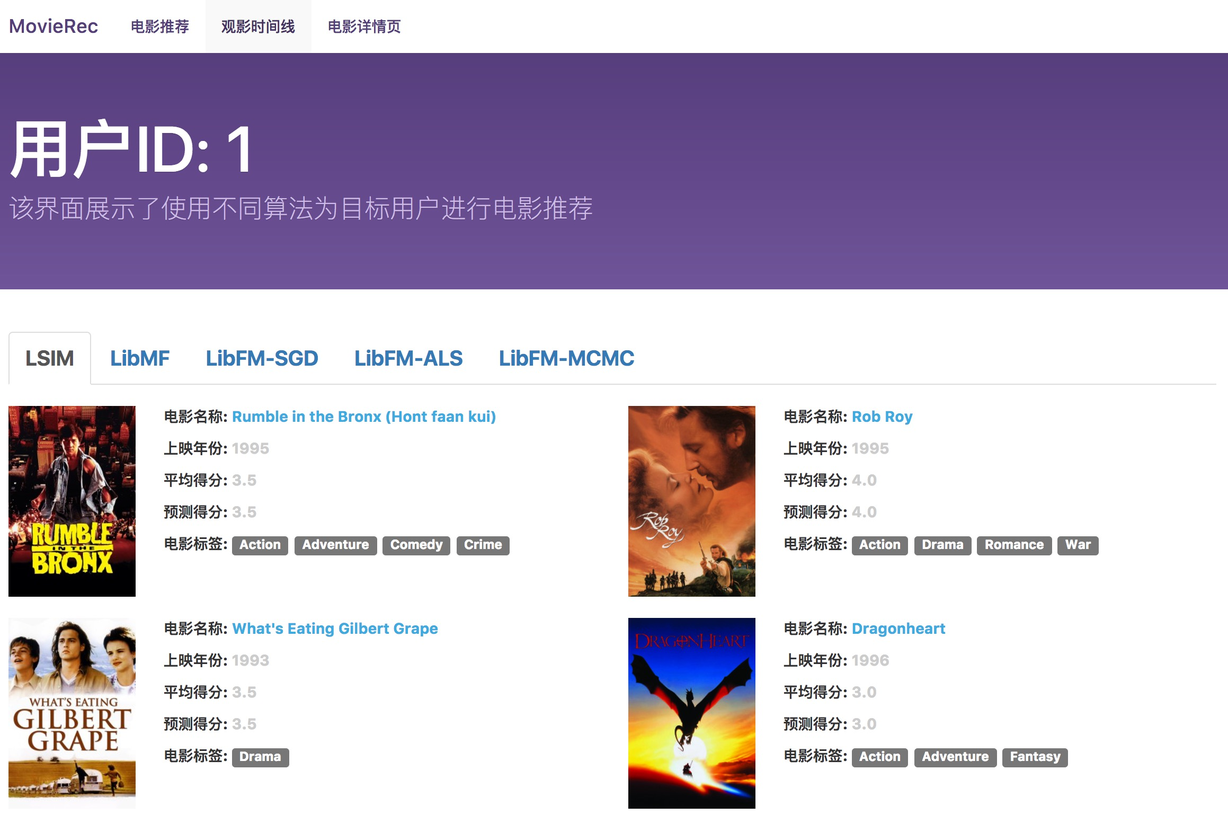
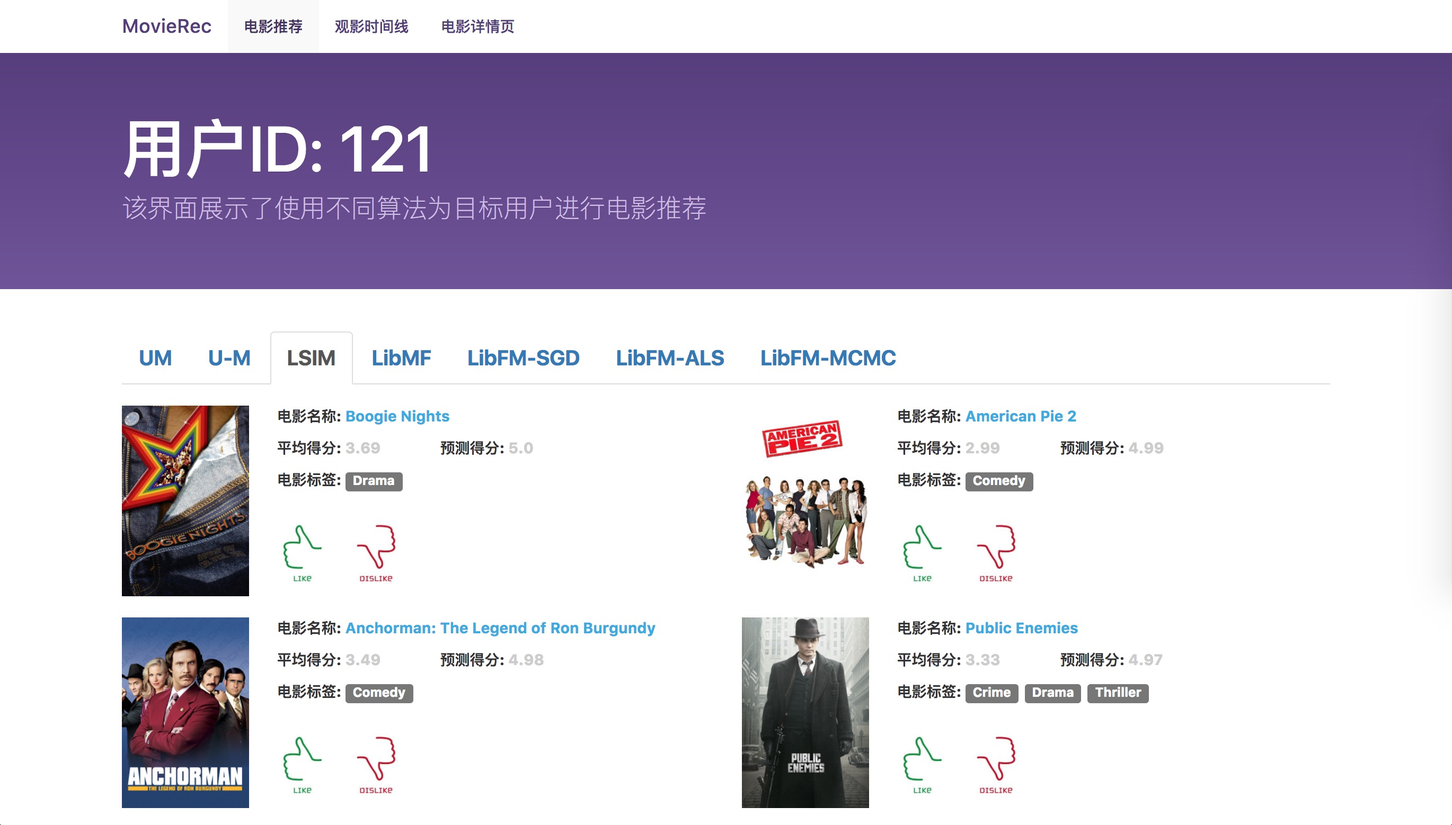
add chap5 and chap6

diff --git a/chap/abstract.tex b/chap/abstract.tex
@@ -3,18 +3,7 @@
 电商平台里的商品、媒体网站里的新闻、小说网站里的作品、招聘网站里的职位等，
 当数量超过用户可以遍历的上限时，用户就无所适从了。
 推荐系统可以对海量信息进行筛选、过滤，将用户最关注最感兴趣的信息展现在用户面前，能大大增加这些内容的转化率，
-对各类应用系统都有非常巨大的价值，逐渐成为互联网平台不可或缺的一环。
-例如，著名的电商网站亚马逊公司拥有``推荐系统之王''的称号，大概有35\%的销售额是与推荐系统相关的；
-又例如国内的阿里巴巴公司，在推荐系统上也有重金投入，举办过类似``天猫推荐算法大赛''、``阿里移动推荐算法''
-等多项推荐系统学术竞赛。
-
-协同过滤作为推荐系统中应用最广泛的算法之一，可以对用户兴趣分布进行分析，从大量用户群体中找到相似兴趣的用户邻居，
-综合这些相似兴趣用户的兴趣偏好，形成推荐系统对目标用户的喜好程度预测。
-传统的协同过滤算法的基本假设是被同一用户偏爱的物品具有相似的兴趣分布，或者喜欢相同物品的用户拥有相似的兴趣分布。
-但在真实的场景中，该假设并都是成立的，因为人的兴趣分布会随着时间的流逝发生变化。
-为了描述这种兴趣漂移的现象，本文定义了用户的长期兴趣分布和短期兴趣分布
-来刻画用户在不同时间区间的兴趣状态。与此同时本文在传统协同过滤假设的基础上
-又提出了两个改进版本的假设，用以刻画物品在用户的交互时间线上的兴趣分布变化。
+对各类应用系统都有非常巨大的价值，逐渐成为互联网平台中不可或缺的一环。
 
 大数据时代的来临积累了大量的用户数据，同时计算机硬件性能的大幅度提升，这些改变带了深度学习的风靡兴起。
 深度学习作为一种机器学习范式，利用定制的神经网络结构对学习任务进行建模，
@@ -22,13 +11,24 @@
 深度学习在语音识别、图像识别等诸多研究领域上取得了突破性的进展，
 将人工智能引上了一个新的台阶，不仅学术意义重大，而且工业实用性很强，催化了大量智能产品的诞生。
 
-自然语言处理领域中引用深度学习，利用浅层神经网络结构学习出更好的词向量表示，在文本分类、
-机器翻译等评测任务上取得巨大的进展。受到句向量表示算法的启发，本文提出了长短期兴趣模型来刻画两个改进版本的假设。
-长短期兴趣模型引入了一个神经网络结构来提取用户交互时间线上的序列信息，
-从而训练处更好的用户表示和物品表示，然后再利用基于特征的协同过滤框架进行融合，
-解决推荐系统中的电影评分预测任务。本文在两类真实世界数据集上进行了多组实验，
-大量实验结果表明了长短期兴趣模型在预测准确率上都超过传统协同过滤算法，同时和目前最优模型的结果差距很小，
-证明了长短期兴趣模型的算法有效性。
+鉴于深度学习在诸多研究领域的成功应用和突破性进展，近些年来，如何将深度学习成功应用于推荐系统领域中成为了研究者们的热门话题。
+在本文中，我们提出了两种神经网络模型尝试使用深度学习来解决推荐系统中的电影评分预测任务。
+首先，我们将电影评分预测任务看成一个回归问题，基于神经网络中传统的多层感知器提出了UM模型和U-M模型，
+利用嵌入技术将用户和电影压缩至低维的向量表示，并且输入到多层感知器中的输入层中，通过隐藏层的学习和映射，在输出层输出预测评分数据。
+另外本文还使用了Dropout技术，在训练过程中随机舍去某些神经节点，提高了整体算法的鲁棒性。
+UM模型和U-M模型是使用深度学习对求解推荐问题进行的初步探索，取得了和经典推荐算法相近的实验效果，证明了深度学习在推荐系统中应用的可行性。
+
+其次，我们考虑到用户兴趣随时间流逝发生漂移的特点，提出了长短期兴趣模型，将用户的兴趣分成长期兴趣和短期兴趣两种，
+并且认为位于相同短期兴趣中的电影之间具有更高的相似度。利用所有观看过的电影生成对应的用户表示长期兴趣，
+利用用户和同一个时间窗口内的邻居电影生成对应的电影表示短期兴趣，得到带有时序特征的用户表示和电影表示。
+最后使用基于特征的矩阵分解算法融合用户嵌入表示和电影嵌入表示，生成所有的待预测评分。
+在两类真实世界数据集上进行的大量实验表明了长短期兴趣模型在预测准确率上都超过传统协同过滤算法，
+同时和目前最优模型的结果差距很小，证明了长短期兴趣模型的算法有效性。
+
+除了理论实验部分，本文还实现了一个电影推荐原型系统MovieRec。MovieRec从多个来源（如MovieLens，IMDb，TMDb等网站）获取电影的详细属性，
+更好地帮助用户全方面了解一部电影的各个方面。同时还根据用户的历史评分数据，实现了诸多经典的推荐算法以及本文提出的三个模型，
+用户可以根据自己的爱好进行切换和选择。最后对于推荐结果，MovieRec还提供了显示的反馈接口，用户可以通过点赞或者差评的方式告诉系统推荐结果的好坏，
+系统会根据用户的反馈进行推荐结果的动态调整。
 \end{cabstract}
 
 \begin{eabstract}
@@ -41,29 +41,6 @@ find the most concerned and interesting information to displayed in front of the
 and greatly increase the conversion rate of these content.
 Recommender system is valuable for vast types of applications,
 and gradually becomes an indispensable part of most Internet platform.
-For example, the famous e-commerce site Amazon has the title of ``Recommender System King'',
-about 35\% of sales are related to its recommender system;
-Another example is the domestic Alibaba company,
-it has invested lots of money in recommender system field,
-and held a number of recommender system academic competition,
-such as ``TMall Recommended Algorithm Contest '' and ``Ali Mobile Recommendation Algorithm''.
-
-As one of the most widely used algorithms in the recommender system,
-collaborative filtering can analyze the user interest distribution,
-find similar users from a large number of user groups,
-form the preference prediction of target users for recommender system,
-via synthesizing these similar users' interest preferences.
-The basic assumption of a conventional collaborative filtering algorithm is
-that the items favored by the same user have a similar distribution of interest,
-or that users who prefer the same item have similar interest distributions.
-However in the real scene, the assumption are not always true,
-because the distribution of people's interests will change over time.
-In order to describe this phenomenon of interest drift,
-this paper defines the user's long-term interest distribution and short-term interest distribution
-to describe the user's interest status in different time interval.
-At the same time, this paper proposes two improved version of the hypothesis
-based on the traditional cooperative filtering hypothesis,
-to describe the items in the user's interactive time on the distribution of interest changes.
 
 Big data era has accumulated a lot of user data, while the computer hardware performance has
 won a huge upgrade, these changes make deep learning spring up rapidly.
@@ -75,21 +52,41 @@ and image recognition, help lead artificial intelligence to a new level.
 It not only has a significant academic significance, also shows a great practicability in
 industrial circles, a large number of intelligent products are born with its contribution.
 
-Natural language processing research field brings in deep learning,
-makes use of shallow neural network structure to learning a better word vector representation,
-shows great results in text classification, machine translation and many other tasks.
-Inspired by the sentence vector representation algorithm,
-this paper proposes a long-short interest model (LSIM) to describe the two improved versions hypothesis.
-The long-short interest model introduces a neural network structure to extract the sequence information
-on the user interaction timeline,
-so that better user representation and item representation can be trained,
-then they are integrated in the feature-based collaborative filtering framework,
-to solve the movie rating prediction task in the recommended system.
-In this paper, we have carried out several experiments on two kinds of real-world datasets,
-a large number of experimental results show that the long-short interest model reveals
+In view of the successful application and breakthrough development of deep learning in many research fields,
+it has become a hot topic for researchers to successfully apply the deep learning to the recommender system in recent years.
+In this paper, we propose two neural network models to try to use the deep learning
+to solve the movie rating prediction task in the recommender system.
+Firstly, we consider the movie rating prediction task as a regression problem.
+Based on the traditional multi-layer perceptron in neural network, we propose UM model and U-M model.
+The user and movie are compressed into a low-dimensional vector representation using the embedding technique and
+then inputted into a multi-layer perceptron, the predicted ratings are outputted after hiding layer learning.
+In addition, we also use the Dropout technology, randomly drop some neural nodes in the training process,
+to improve the robustness of the overall algorithm.
+UM model and U-M model are the initial explorations to use deep learning to solve the recommender problem,
+and the experimental results are similar to the classical recommender algorithm,
+which proves the feasibility of the application of the deep learning in the recommender system.
+
+Secondly, we take the characteristics of user interest drift over time into account,
+propose the long short interest model. The user's interest is divided into two kinds: long-term interest and short-term interest,
+and that there is a higher degree of similarity between the movies located in the same short-term interest
+Long-term interest is expressed via using all the watched movies to generate the corresponding user,
+while short-term interest is expressed via using the user and the neighbor movie
+in the same time window to generate the corresponding movie.
+The user representation and movie representation containing sequential characteristics can be obtained after generation process.
+Finally, the feature-based matrix factorization algorithm is used to merge user representation
+and movie representation to generate all the predicted ratings.
+A large number of experimental results show that the long-short interest model reveals
 a great improvement than traditional collaborative filtering algorithms in the prediction accuracy.
 Meanwhile our results have a small gap between the state-of-the-art ones,
 which shows the effectiveness of the long-short interest model.
+
+In addition to the theoretical experimental part, this paper also implements a movie recommendation prototype system MovieRec. MovieRec obtains the detailed properties of a movie from a number of sources (such as MovieLens, IMDb, TMDb and other sites),
+to better help users understand all aspects of the movie.
+At the same time, MovieRec realizes many classic recommender algorithms and the proposed three models in this paper,
+to recommend movie to users according to the users' historical ratings data.
+Finally, for the recommended results, MovieRec also provides a display of the feedback interface,
+users could tell the system whether the recommended results are good or bad,
+the system will dynamic adjust the recommend results based on users' feedbacks.
 \end{eabstract}
 
 

diff --git a/chap/chap1.tex b/chap/chap1.tex
@@ -96,29 +96,34 @@ Wang等人在\parencite{wang2015collaborative}和\parencite{wang2016collaborativ
 还可以提高物品提供商的转化效率。在当前流行的各类大型网站平台上，
 一般都提供了推荐系统的功能方便用户获取自己感兴趣的信息，比如淘宝网站上的商品推荐，或者豆瓣电台中的音乐推荐等。
 
-协同过滤利用用户的历史行为数据学习出用户的兴趣偏好，从而进行较为准确的推荐，但传统的协同过滤算法将同一个用户的交互数据等同视之，
-这样假设往往是存在问题的。例如在电商平台上的推荐系统中，采用协同过滤算法时，我们会认为一个用户购买过的商品具有类似的兴趣分布，
-但实际上随着时间的推移，用户购买的商品在不同的时间区间往往具有很大的区别。
-一位刚当上妈妈的女性用户的最近购买记录中包含大量的母婴用品，但是她的两年前的购买记录中却都是少女系列的衣物等，
-协同过滤算法认为两者相似的假设在此刻就不能成立。本文正是基于此提出了长短期兴趣模型，用以刻画用户兴趣随时间漂移的现象。
+深度学习是近年来兴起的机器学习范式，通过特定的神经网络结构，直接从原始数据向预测目标进行端到端的转换，
+省去了大量的构建特征工程的人力花销，在语音识别、图像识别等诸多研究领域上取得了突破性的进展。
 
-同时本文的工作也是深度学习在推荐系统中应用的一次尝试，和其他工作不同的是，本文在利用评分数据的同时，
-额外考虑了评分时间的辅助信息。时间信息的引入让刻画用户兴趣漂移成为了可能，深度学习的框架也保证了可以学习出较好的用户表示
-和物品表示。一方面这些较好的用户表示和物品表示可以用在评分预测任务上，另一方面，这些表示还可以帮助发现相似用户和相似电影，
+本文正是深度学习应用于推荐系统领域的一次尝试，通过多层感知器模型和长短期兴趣模型解决了电影评分预测任务，
+为推荐算法提供了一个新的解题角度。多层感知器模型是一个通用的回归框架，将原始的用户表示和电影表示直接作为输入，
+通过多层的神经网络结构一层层地抽象归纳用户和电影的关系，最终得到待预测评分数据。
+与此同时，如果真实的推荐环境中还包含各类辅助信息，也可以不进行处理直接加入到多层感知器模型中。
+
+长短期兴趣模型是对传统协同过滤算法的一种扩展。传统的协同过滤算法将同一个用户的交互数据等同视之，这样假设往往是存在问题的。
+例如在电商平台上的推荐系统中，采用协同过滤算法时，我们会认为一个用户购买过的商品具有类似的兴趣分布，但实际上随着时间的推移，
+用户购买的商品在不同的时间区间往往具有很大的区别。长短期兴趣模型正是用来刻画用户兴趣随时间漂移的现象的一种模型，
+在利用评分数据的同时，额外引入了评分时间的信息，让刻画用户兴趣漂移成为了可能，深度学习的框架也保证了可以学习出较好的用户表示和物品表示。
+一方面这些较好的用户表示和物品表示可以用在评分预测任务上，另一方面，这些表示还可以帮助发现相似用户和相似电影，
 或者异常用户和异常电影，并进行相应的好友推荐或者异常检测等等。
 
 \section{本文主要工作及成果}
-本文针对传统协同过滤算法不能有效地建模用户兴趣随时间流逝发生漂移的现象进行研究，提出了相应的可行解决方案。
+本文是深度学习在推荐系统领域应用的一种尝试，提出了多层感知器模型和长短期兴趣模型解决电影评分预测任务，
+同时实现了电影推荐原型系统MovieRec用以展示直观的推荐效果。主要包含以下几点成果：
+
 \begin{itemize}
 \item
-受到深度学习在自然语言处理领域的成功应用的启发，本文尝试将深度学习和推荐系统进行结合，
-利用深度学习能够高效学习高层抽象的特点，对用户和物品进行更加准确地建模。
+本文利用最经典的神经网络结构实现了多层感知器模型，取得了和传统推荐算法相近的实验结果，证明了深度学习应用于推荐系统领域的可行性。
 \item
 本文考虑到用户的兴趣分布会随时间流逝发生变化的特点，提出长短期兴趣模型，
 在学习过程中融入了时间因素，使得用户模型和物品模型更加具有时效性，从而进一步提升推荐系统的推荐性能。
 \item
-本文通过长短期兴趣模型学习出更好的用户表示和电影表示，这些表示不仅可以用在电影评分预测上，
-还可以用于发现相似用户和相似电影，或者异常用户和异常电影。
+本文实现了一个电影推荐原型系统MovieRec，将我们提出的多层感知器模型和长短期兴趣模型进行了应用，
+可以帮助用户快速发现其可能感兴趣的电影。
 \item
 本文提出的长短期兴趣模型已经投稿并发表在了第五届自然语言处理与中文计算会议上（NLPCC 2016）。
 \end{itemize}
@@ -126,21 +131,22 @@ Wang等人在\parencite{wang2015collaborative}和\parencite{wang2016collaborativ
 \section{本文篇章结构}
 本文一共由六个章节组成。
 
-第一章节是绪论部分，主要介绍了推荐系统和深度学习的研究背景，阐述了本文的研究意义和问题定义，
-然后介绍了我们的工作和研究成果，最后描述了本文的篇章结构。
+第一章节是绪论部分，主要介绍了推荐系统和深度学习的研究背景，阐述了本文的研究意义，
+然后介绍了我们的主要工作和研究成果，最后描述了本文的篇章结构。
 
 第二章节阐述了推荐系统和深度学习的相关工作，主要包括多种推荐算法的简介，推荐系统的评价方法，
 神经网络版本词向量模型，深度学习在推荐系统中的应用实例等相关方法。
 
-第三章节是本文提出的长短期兴趣模型的详细描述，包括用户长期兴趣和短期兴趣的定义，
-以及两个新的假设，然后具体介绍了长短期兴趣模型的生成和训练方法，从而生成用户表示和电影表示，
-最后使用基于特征的协同过滤框架进行两者的融合，得到评分预测结果。
+第三章节描述了本文提出的基于深度学习的推荐系统算法，主要包含多层感知器模型和长短期兴趣模型。
+对于前者，主要介绍了UM模型和U-M模型的算法框架，同时引入了Dropout技术提升算法鲁棒性；
+对于后者，主要阐述了如何利用长期兴趣和短期兴趣生成带时序特征的用户表示和电影表示，
+并且利用基于特征的矩阵分解框架融合两种表示，最终得到待预测评分的过程。
 
-第四章节展示了本文第三章节提出的长短期兴趣模型在两类真实世界数据集上的实验效果，
+第四章节展示了本文提出的多层感知器模型和长短期兴趣模型在两类真实世界数据集上的实验效果，
 对实验设置、评价方法和实验结果都进行了详细的分析和讨论。
 
-第五章节介绍了基于长短期兴趣模型和其他多种推荐算法的电影推荐系统，分阶段详细介绍了该原型系统的系统结构，
-并结合具体用例进行了系统展示。
+第五章节介绍了基于多层感知器模型和长短期兴趣模型以及其他多种推荐算法的电影推荐系统，
+分阶段详细介绍了该原型系统的系统结构，并结合具体用例进行了系统展示。
 
 最后，第六章节对本文的研究工作进行了总结与归纳，并对未来可能的拓展方向进行了展望。
 

diff --git a/chap/chap5.tex b/chap/chap5.tex
@@ -45,42 +45,48 @@ IMDb\footnote{http://www.imdb.com}和TheMovieDb\footnote{https://www.themoviedb.
 将``差评''操作认为是用户给该项推荐结果进行了最低分的评分（$1$分），从而加入到第一阶段的用户电影特征表示的更新过程中。
 
 \section{系统展示}
-本章节中，我们将展示MovieRec电影推荐系统中的各个模块，分别是电影推荐界面、电影详情界面和个人观影线界面。
+本章节中，我们将展示MovieRec电影推荐系统中的各个模块，分别是电影推荐界面、个人观影时间线界面和电影详情界面。
 
 \begin{figure}[htbp]
 \centering
-\includegraphics[scale=0.17]{images/systemshow1.jpeg}
+\includegraphics[scale=0.16]{images/systemshow1.jpeg}
 \caption{MoiveRec中的电影推荐界面}
 \label{fig:systemshow1}
 \end{figure}
 
 电影推荐界面作为整个推荐系统的核心，是所有界面中最重要的一个，图\ref{fig:systemshow1}展示了MovieRec中的电影推荐界面。
-从图中可以看出，MovieRec中一共实现了基于上一章节所提出的三类推荐算法的推荐结果列表，分别是长短期兴趣模型，矩阵分解和因式分解机，
-用户可以通过点击导航栏在不同的推荐算法中进行切换，选择自己满意的推荐结果进行观影。
-每个列表一共包含至多20项推荐电影，每一项电影信息包括电影的海报图片，电影名称，上映时间，平均得分，预测得分，以及多项电影标签。
-通过点击电影名称或者电影海报图片可以跳转到图\ref{fig:systemshow2}所示的电影详情界面。
+从图中可以看出，MovieRec中实现了本文中提出的多层感知器模型和长短期兴趣模型，在图中分别以UM、U-M以及LSIM进行表示，
+同时实现了经典的基于矩阵分解和因式分解机的推荐算法，在图中分别以LibMF、LibFM-SGD、LibFM-ALS以及LibFM-MCMC进行表示，
+用户可以通过点击导航栏在不同的推荐算法中进行切换，选择自己满意的推荐结果。
+每个推荐列表一共包含$20$部电影，每项推荐电影提供了对应的电影海报和电影名称信息，用户可以通过点击它们跳转到对应的电影详情界面。
+同时还提供了电影的平均评分和推荐算法的预测评分，目前推荐列表是使用预测评分进行排序的，另外一种可选方案是使用预测得分和评分得分的差值进行排序，
+这样可以帮助用户发现大众不喜爱但是符合自己口味的小众电影。
 
 \begin{figure}[htbp]
 \centering
-\includegraphics[scale=0.2]{images/systemshow2.jpeg}
-\caption{MoiveRec中的电影详情界面}
+\includegraphics[scale=0.16]{images/systemshow2.jpeg}
+\caption{MoiveRec中的观影时间线界面}
 \label{fig:systemshow2}
 \end{figure}
 
-电影详情界面可以帮助用户了解一部电影的具体属性，除了刚刚提到的一些电影基本属性，电影详情界面还额外提供了电影的剧情简介、
-电影的导演和主演信息，电影的社区评价等等。因为当前平台的用户参与度较少，所以MovieRec还额外索引了MovieLens、
-IMDb和TMDb三个著名电影推荐平台上对应的电影详情界面，用户可以通过导航栏进行切换，查看在不同电影推荐平台上，其他用户的评分和评论。
-
 \begin{figure}[htbp]
 \centering
-\includegraphics[scale=0.2]{images/systemshow3.jpeg}
-\caption{MoiveRec中的观影时间线界面}
+\includegraphics[scale=0.16]{images/systemshow3.jpeg}
+\caption{MoiveRec中的电影详情界面}
 \label{fig:systemshow3}
 \end{figure}
 
-特别地，针对本文提出的用户长短期兴趣模型，MovieRec还提供了用户的观影时间线界面，如图\ref{fig:systemshow3}所示。
-在该界面中，我们标记出了目标用户的所有历史电影评分，并按照时间进行了排序，用户通过浏览时间线可以感性地得出长时间以来自己的观影兴趣转变。
-同时，因为在长短期兴趣模型中，我们生成了相应的用户特征表示和电影特征表示，并且保证在同一个观影时间线上，距离较近的电影相似度高于距离较远的电影，
-所以观影时间线界面还提供了电影相似度接口，用户在蓝色区域输入想要对比的两部电影的ID信息，即可定性地对比两者之间的相似度。
+特别地，针对本文提出的基于用户兴趣漂移的长短期兴趣模型，MovieRec还提供了用户的观影时间线界面，如图\ref{fig:systemshow2}所示。
+在该界面中，我们标记出了目标用户历史上所有有过评分记录的电影，并按照评分时间进行了排序，排序列表中主要包含了电影ID、电影海报以及评分数据等信息，
+用户可以通过点击电影ID或者电影海报跳转到对应的电影详情界面。
+同时，在长短期兴趣模型中，我们生成了带时序特征的用户表示和电影表示，
+还提出了同一个观影时间线上，相距较近的电影之间的相似度高于相距较远的电影的基础假设。
+所以观影时间线界面上还提供了计算电影相似度接口，用户在蓝色区域输入想要对比的两部电影的ID信息，即可定性地对比两者之间的相似度。
+另外，用户通过浏览时间线可以直观上得出长时间以来自己的观影兴趣转变。
+
+电影详情界面可以帮助用户更好地了解一部电影的各个方面，除了刚刚提到的一些电影基本属性，电影详情界面还额外提供了电影的剧情简介、
+电影的导演和主演信息，电影的社区评价等等。因为当前平台的用户数量较少，参与度也较低，所以MovieRec还额外索引了MovieLens、
+IMDb和TMDb三个著名电影推荐平台上对应的电影详情界面，用户可以通过导航栏进行切换，查看在不同电影推荐平台上其他用户的评分和评论数据，
+图\ref{fig:systemshow3}就展示了电影《Breaking the Waves》在MovieLens平台上的电影详情页面。
 
 

diff --git a/chap/chap6.tex b/chap/chap6.tex
@@ -1,7 +1,15 @@
 \chapter{总结与展望}
 \section{本文工作总结}
 本文阐述了基于深度学习的推荐系统相关的研究工作，主要内容包括：
-基于用户兴趣漂移的长短期兴趣模型，以及长短期兴趣模型驱动的电影推荐系统。
+基于原始信息的多层感知器模型，基于用户兴趣漂移的长短期兴趣模型，以及两种模型驱动的电影推荐系统。
+
+\subsection{基于原始信息的多层感知器模型}
+本文提出了基于原始信息的多层感知器模型，作为深度学习在推荐系统领域应用的初次尝试。
+通过将原始的用户表示和电影表示由输入层导入至多层感知器中，通过隐藏层的抽象和归纳，
+在输出层得到待预测评分数据。同时考虑到用户表示和电影表示之间的相似度和评分数据呈正相关关系，
+本文还额外将用户表示和电影表示的差值加入到输入层中，进一步提升了预测准确度。
+在这些模型中，我们还引入了Dropout技术，通过在训练过程中随机舍弃一些神经网络节点，
+增加了模型算法的鲁棒性。
 
 \subsection{基于用户兴趣漂移的长短期兴趣模型}
 本文提出了基于用户兴趣漂移的长短期兴趣模型，可以有效地刻画用户个人偏好会随时间流逝发生变化的特征，
